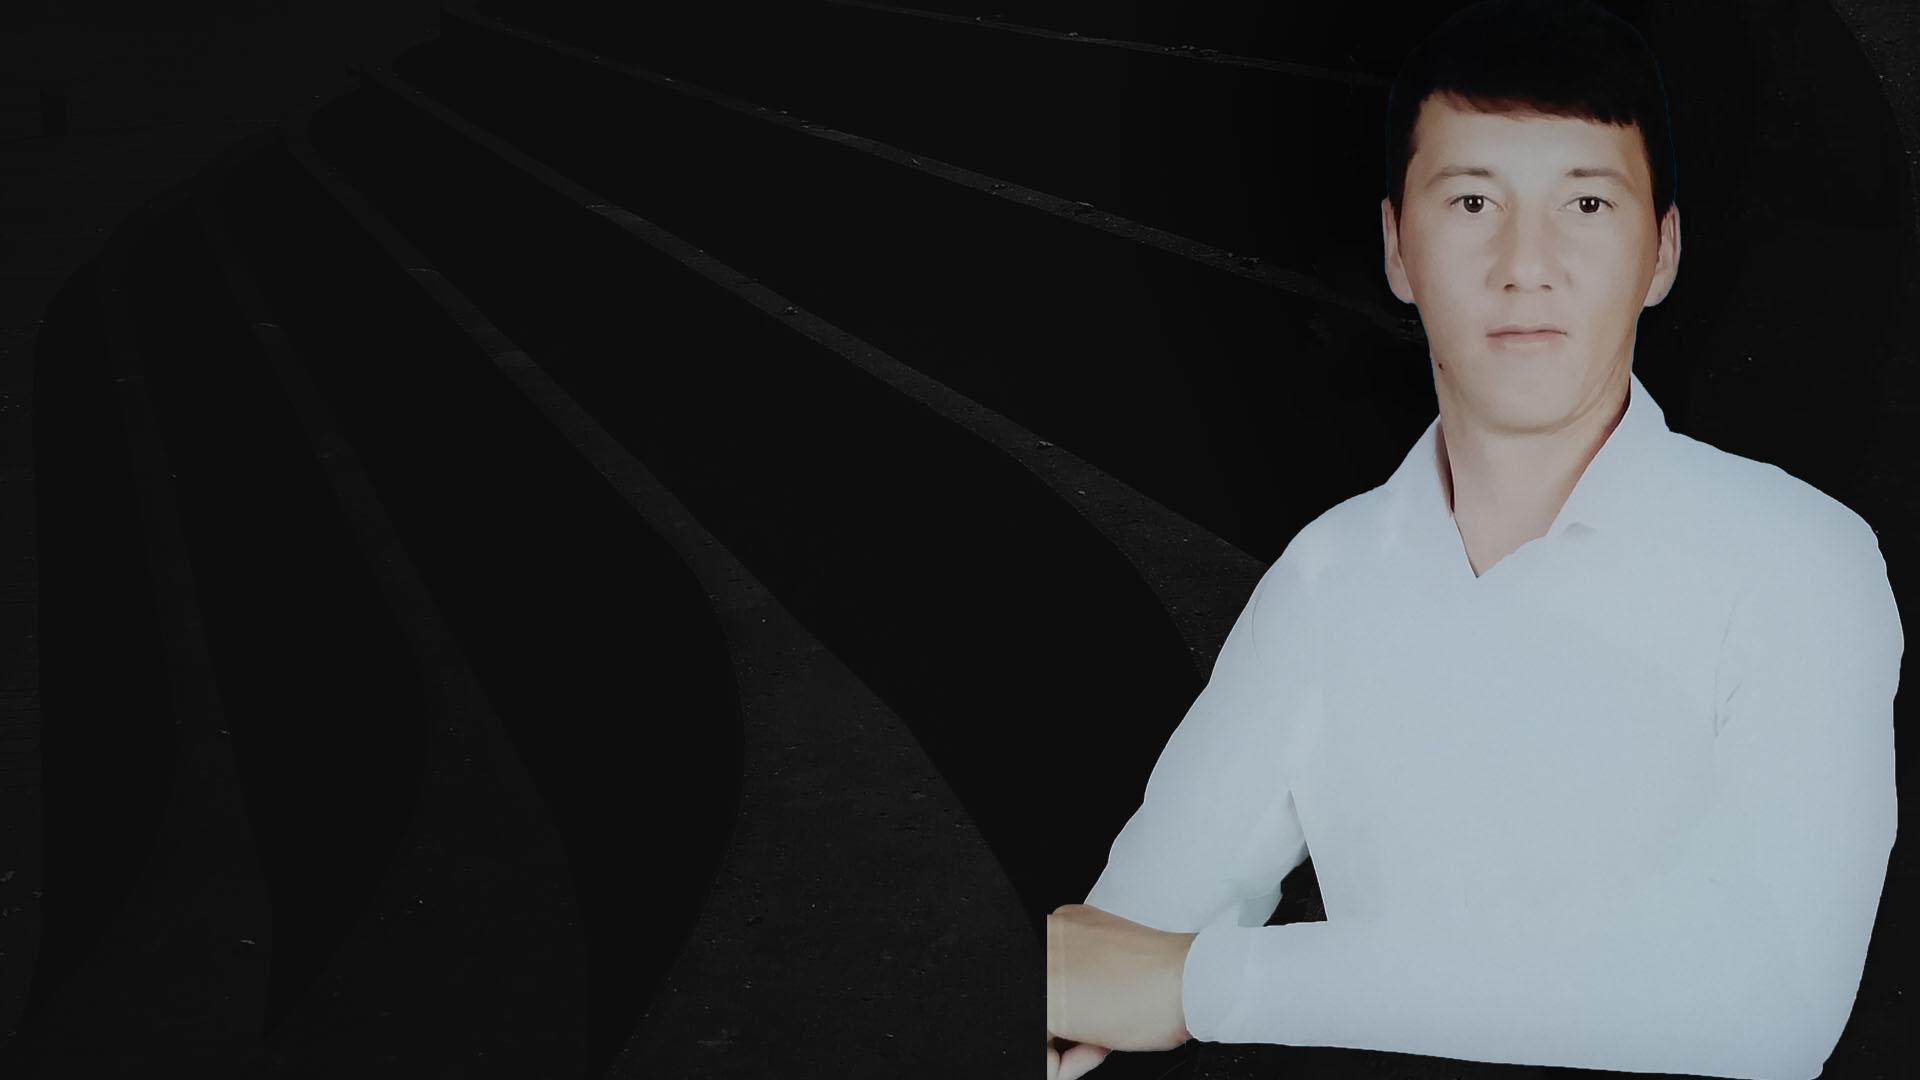
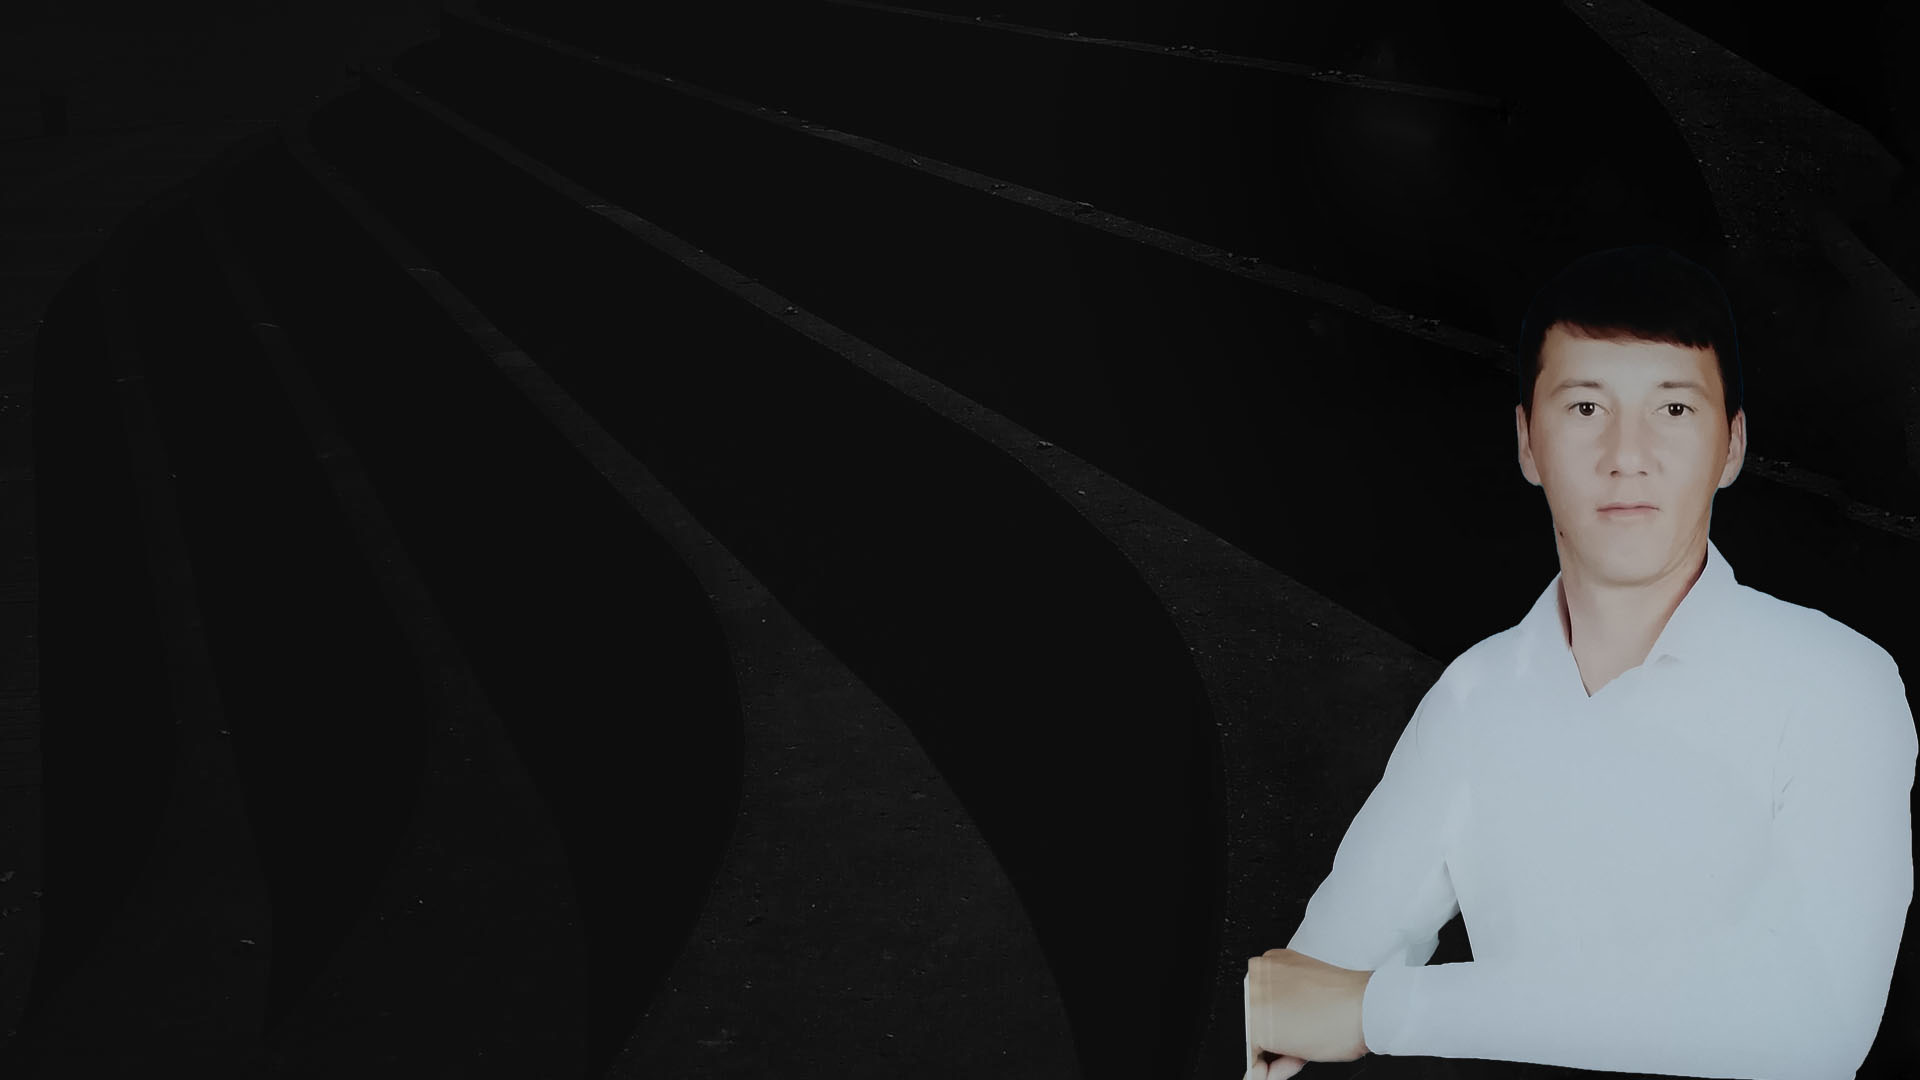
updatet project

Changed region(s): [[0.5312, 0.0611, 1.0, 1.0], [0.9375, 0.6417, 1.0, 1.0], [0.75, 0.9778, 0.8125, 1.0]]

diff --git a/src/assets/css/main.css b/src/assets/css/main.css
@@ -12,29 +12,41 @@
 --------------------------------------------------------------*/
 /* Fonts */
 :root {
-  --default-font: "Roboto",  system-ui, -apple-system, "Segoe UI", Roboto, "Helvetica Neue", Arial, "Noto Sans", "Liberation Sans", sans-serif, "Apple Color Emoji", "Segoe UI Emoji", "Segoe UI Symbol", "Noto Color Emoji";
-  --heading-font: "Raleway",  sans-serif;
-  --nav-font: "Poppins",  sans-serif;
+  --default-font: "Roboto", system-ui, -apple-system, "Segoe UI", Roboto, "Helvetica Neue", Arial, "Noto Sans", "Liberation Sans", sans-serif, "Apple Color Emoji", "Segoe UI Emoji", "Segoe UI Symbol", "Noto Color Emoji";
+  --heading-font: "Raleway", sans-serif;
+  --nav-font: "Poppins", sans-serif;
 }
 
 /* Global Colors - The following color variables are used throughout the website. Updating them here will change the color scheme of the entire website */
-:root { 
-  --background-color: #000000; /* Background color for the entire website, including individual sections */
-  --default-color: #fafafa; /* Default color used for the majority of the text content across the entire website */
-  --heading-color: #ffffff; /* Color for headings, subheadings and title throughout the website */
-  --accent-color: #18d26e; /* Accent color that represents your brand on the website. It's used for buttons, links, and other elements that need to stand out */
-  --surface-color: #1a1a1a; /* The surface color is used as a background of boxed elements within sections, such as cards, icon boxes, or other elements that require a visual separation from the global background. */
-  --contrast-color: #000000; /* Contrast color for text, ensuring readability against backgrounds of accent, heading, or default colors. */
+:root {
+  --background-color: #000000;
+  /* Background color for the entire website, including individual sections */
+  --default-color: #fafafa;
+  /* Default color used for the majority of the text content across the entire website */
+  --heading-color: #ffffff;
+  /* Color for headings, subheadings and title throughout the website */
+  --accent-color: #18d26e;
+  /* Accent color that represents your brand on the website. It's used for buttons, links, and other elements that need to stand out */
+  --surface-color: #1a1a1a;
+  /* The surface color is used as a background of boxed elements within sections, such as cards, icon boxes, or other elements that require a visual separation from the global background. */
+  --contrast-color: #000000;
+  /* Contrast color for text, ensuring readability against backgrounds of accent, heading, or default colors. */
 }
 
 /* Nav Menu Colors - The following color variables are used specifically for the navigation menu. They are separate from the global colors to allow for more customization options */
 :root {
-  --nav-color: #fafafa;  /* The default color of the main navmenu links */
-  --nav-hover-color: #18d26e; /* Applied to main navmenu links when they are hovered over or active */
-  --nav-mobile-background-color: #1a1a1a; /* Used as the background color for mobile navigation menu */
-  --nav-dropdown-background-color: #1a1a1a; /* Used as the background color for dropdown items that appear when hovering over primary navigation items */
-  --nav-dropdown-color: #fafafa; /* Used for navigation links of the dropdown items in the navigation menu. */
-  --nav-dropdown-hover-color: #18d26e; /* Similar to --nav-hover-color, this color is applied to dropdown navigation links when they are hovered over. */
+  --nav-color: #fafafa;
+  /* The default color of the main navmenu links */
+  --nav-hover-color: #18d26e;
+  /* Applied to main navmenu links when they are hovered over or active */
+  --nav-mobile-background-color: #1a1a1a;
+  /* Used as the background color for mobile navigation menu */
+  --nav-dropdown-background-color: #1a1a1a;
+  /* Used as the background color for dropdown items that appear when hovering over primary navigation items */
+  --nav-dropdown-color: #fafafa;
+  /* Used for navigation links of the dropdown items in the navigation menu. */
+  --nav-dropdown-hover-color: #18d26e;
+  /* Similar to --nav-hover-color, this color is applied to dropdown navigation links when they are hovered over. */
 }
 
 /* Color Presets - These classes override global colors when applied to any section or element, providing reuse of the sam color scheme. */
@@ -760,6 +772,30 @@ section,
 /*--------------------------------------------------------------
 # About Section
 --------------------------------------------------------------*/
+.hexagon-border {
+  width: 100%;
+  height: 100%;
+  padding: 1%;
+  
+  position: relative;
+  clip-path: polygon(50% 0%, 100% 25%, 100% 75%, 50% 100%, 0% 75%, 0% 25%);
+}
+.hexagon {
+  width: 100%; /* Kichik hexagon */
+  height: 100%;
+  position: relative;
+  clip-path: inherit;
+  overflow: hidden;
+  background-color: #000000;
+}
+.hexagon-border:hover {
+  background:  #18d26e;/* Pastdan tepaga rang */
+  background-size: 100% 100%; /* Pastdan tepaga rang to‘lishi */
+  transform: scale(1.1); /* Chegarani oldinga chiqish */
+  box-shadow: 0 10px 30px rgba(0, 255, 0, 0.6);
+  transition: background-size 1.5s ease-in-out, transform 0.5s ease, box-shadow 0.5s ease;
+}
+
 .about .content h2 {
   font-weight: 700;
   font-size: 24px;

diff --git a/src/pages/About.jsx b/src/pages/About.jsx
@@ -32,10 +32,14 @@ function About() {
         <div className="container" data-aos="fade-up" data-aos-delay="100">
           <div className="row gy-4 justify-content-center">
             <div className="col-lg-4">
-              <img src="/img/profile-img.jpg" className="img-fluid" alt="" />
+              <div className="hexagon-border">
+                <div className="hexagon">
+                  <img src="/img/profile-img.png" className="img-fluid" alt="" />
+                </div>
+              </div>
             </div>
             <div className="col-lg-8 content">
-              <h2>UI/UX Designer &amp; Web Developer.</h2>
+              <h2>Full Stack Web Deweloper</h2>
               <p className="fst-italic py-3">
                 Lorem ipsum dolor sit amet, consectetur adipiscing elit, sed do eiusmod tempor incididunt ut labore et dolore
                 magna aliqua.
@@ -43,17 +47,16 @@ function About() {
               <div className="row">
                 <div className="col-lg-6">
                   <ul>
-                    <li><i className="bi bi-chevron-right"></i> <strong>Birthday:</strong> <span>1 May 1995</span></li>
-                    <li><i className="bi bi-chevron-right"></i> <strong>Website:</strong> <span>www.example.com</span></li>
-                    <li><i className="bi bi-chevron-right"></i> <strong>Phone:</strong> <span>+123 456 7890</span></li>
-                    <li><i className="bi bi-chevron-right"></i> <strong>City:</strong> <span>New York, USA</span></li>
+                    <li><i className="bi bi-chevron-right"></i> <strong>Birthday:</strong> <span>30 May 1999</span></li>
+                    <li><i className="bi bi-chevron-right"></i> <strong>Phone:</strong> <span>+998 97 290 78 99</span></li>
+                    <li><i className="bi bi-chevron-right"></i> <strong>City:</strong> <span>Karshi Uzbekistan</span></li>
                   </ul>
                 </div>
                 <div className="col-lg-6">
                   <ul>
-                    <li><i className="bi bi-chevron-right"></i> <strong>Age:</strong> <span>30</span></li>
+                    <li><i className="bi bi-chevron-right"></i> <strong>Age:</strong> <span>26</span></li>
                     <li><i className="bi bi-chevron-right"></i> <strong>Degree:</strong> <span>Master</span></li>
-                    <li><i className="bi bi-chevron-right"></i> <strong>Email:</strong> <span>email@example.com</span></li>
+                    <li><i className="bi bi-chevron-right"></i> <strong>Email:</strong> <a href="https://mail.google.com/mail/?view=cm&fs=1&to=sukhrob2024@gmail.com&su=Taklif" target="_blank"> <span>sukhrob2024@gmail.com</span></a></li>
                     <li><i className="bi bi-chevron-right"></i> <strong>Freelance:</strong> <span>Available</span></li>
                   </ul>
                 </div>

diff --git a/src/pages/Home.jsx b/src/pages/Home.jsx
@@ -33,7 +33,7 @@ function Home() {
     return (
         <main className="main">
             <section id="hero" className="hero section dark-background">
-                <img src="/img/hero-bg.jpg" alt="" data-aos="fade-in" />
+                <img src="/img/hero-bg1.jpg" alt="" data-aos="fade-in" />
                 <div className="container" data-aos="zoom-out" data-aos-delay="100">
                     <h2>Suhrob Safarov</h2>
                     <p>
@@ -44,10 +44,18 @@ function Home() {
                         <i className="bi bi-download"></i> Download Resume
                     </a>
                     <div className="social-links">
-                        <Link to="#"><i className="bi bi-twitter-x"></i></Link>
-                        <Link to="#"><i className="bi bi-facebook"></i></Link>
-                        <Link to="#"><i className="bi bi-instagram"></i></Link>
-                        <Link to="#"><i className="bi bi-linkedin"></i></Link>
+                        <a href="https://www.facebook.com/profile.php?id=100081559261261" target="_blank" rel="noopener noreferrer">
+                            <i className="bi bi-facebook"></i>
+                        </a>
+                        <a href="https://github.com/SafarovS" target="_blank" rel="noopener noreferrer">
+                            <i className="bi bi-github"></i>
+                        </a>
+                        <a href="https://t.me/Safarov_suhrob_pravetroom" target="_blank" rel="noopener noreferrer">
+                            <i className="bi bi-telegram"></i>
+                        </a>
+                        <a href="https://mail.google.com/mail/?view=cm&fs=1&to=sukhrob2024@gmail.com&su=Taklif" target="_blank" rel="noopener noreferrer">
+                            <i className="bi bi-envelope-at-fill"></i>
+                        </a>
                     </div>
                 </div>
             </section>

diff --git a/src/components/Footer.jsx b/src/components/Footer.jsx
@@ -40,7 +40,7 @@ function Footer() {
                         <a href="https://t.me/Safarov_suhrob_pravetroom" target="_blank" rel="noopener noreferrer">
                             <i className="bi bi-telegram"></i>
                         </a>
-                        <a href="https://sukhrob2024@gmail.com" target="_blank" rel="noopener noreferrer">
+                        <a href="https://mail.google.com/mail/?view=cm&fs=1&to=sukhrob2024@gmail.com&su=Taklif" target="_blank" rel="noopener noreferrer">
                             <i className="bi bi-envelope-at-fill"></i>
                         </a>
                     </div>
